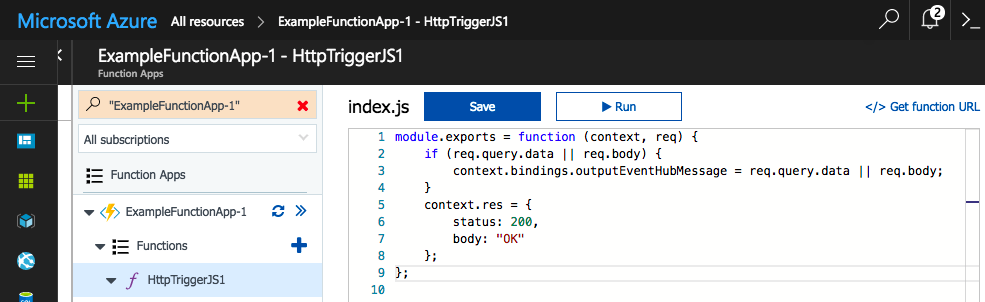
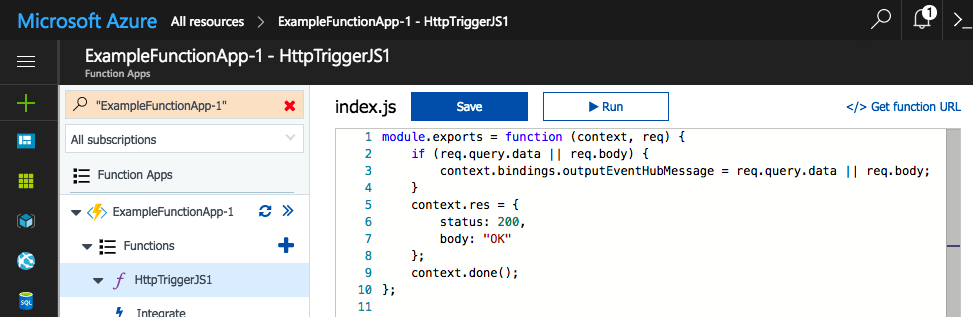
Microsoft: Fix endless wait when calling function

diff --git a/microsoft.md b/microsoft.md
@@ -99,6 +99,7 @@ Lastly, go back to the function and type this code in:
             status: 200,
             body: "OK"
         };
+        context.done();
     };
 
 ![Enter function code screenshot](screenshots/microsoft/add_function_3.png)
@@ -110,11 +111,11 @@ Run this to register the webhook callback:
 
 1. Register the webhook callback URL:
 
-   curl -s -H "Authorization: Bearer yourmbedaccesskey" -H "Content-Type: application/json" -X PUT "https://api.connector.mbed.com/v2/notification/callback" --data '{"url": "https://examplefunctionapp-1.azurewebsites.net/api/HttpTriggerJS1?code=YourFunctionAccessCode=="}'
+       curl -s -H "Authorization: Bearer your_mbed_access_key" -H "Content-Type: application/json" -X PUT "https://api.connector.mbed.com/v2/notification/callback" --data '{"url": "https://examplefunctionapp-1.azurewebsites.net/api/HttpTriggerJS1?code=YourFunctionAccessCode=="}'
 
 2. Subscribe to data updates:
 
-   curl -s -H "Authorization: Bearer yourmbedaccesskey" -X PUT "https://api.connector.mbed.com/v2/subscriptions/yourendpointid/alldata/0/json/"
+       curl -s -H "Authorization: Bearer your_mbed_access_key" -X PUT "https://api.connector.mbed.com/v2/subscriptions/your_endpoint_id/alldata/0/json/"
 
 (this assumes you are running the [mbed example client](http://github.com/CristianPrundeanuARM/exd-tsdb-mbed-client-connector) which sends data updates in JSON format).
 
@@ -132,7 +133,7 @@ As an alternative to Microsoft Functions, you can deploy your own VM and use an 
       ACCESS_KEY=your_mbed_access_key_here
       PORT=8080
       HOST=0.0.0.0
-      AZURE_CONNECTION_STRING=Endpoint=sb://exampleeventhub.servicebus.windows.net/;SharedAccessKeyName=EventHubPolicy1;SharedAccessKey=your_event_hub_access_key;EntityPath=exampleeventhub-1
+      AZURE_CONNECTION_STRING=Endpoint=sb://exampleeventhub.servicebus.windows.net/;SharedAccessKeyName=EventHubPolicy1;SharedAccessKey=YourEventHubAccessKey;EntityPath=exampleeventhub-1
 
 * run the app: **_node app.js_**
 * browse to the app's web interface (http://your_VM_IP_address:8080) and subscribe to JSON data updates (called "**Aggregated data**" on the web interface).
